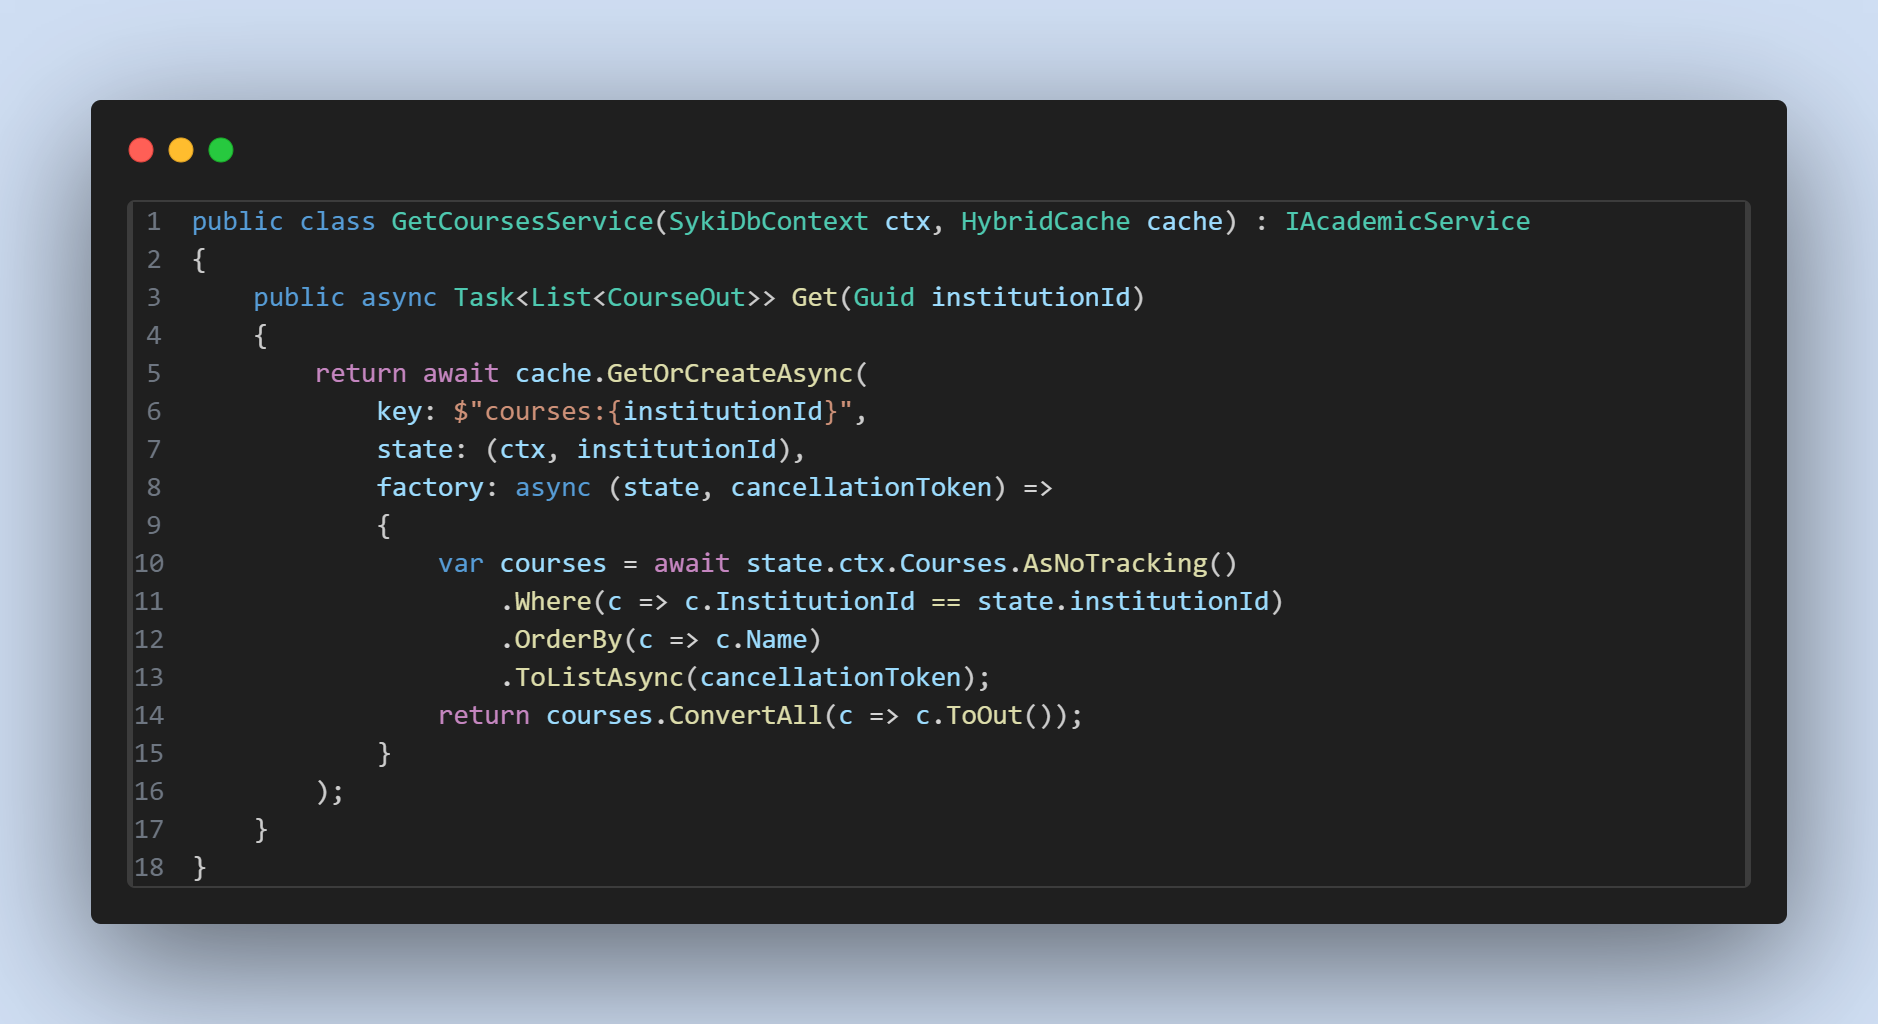
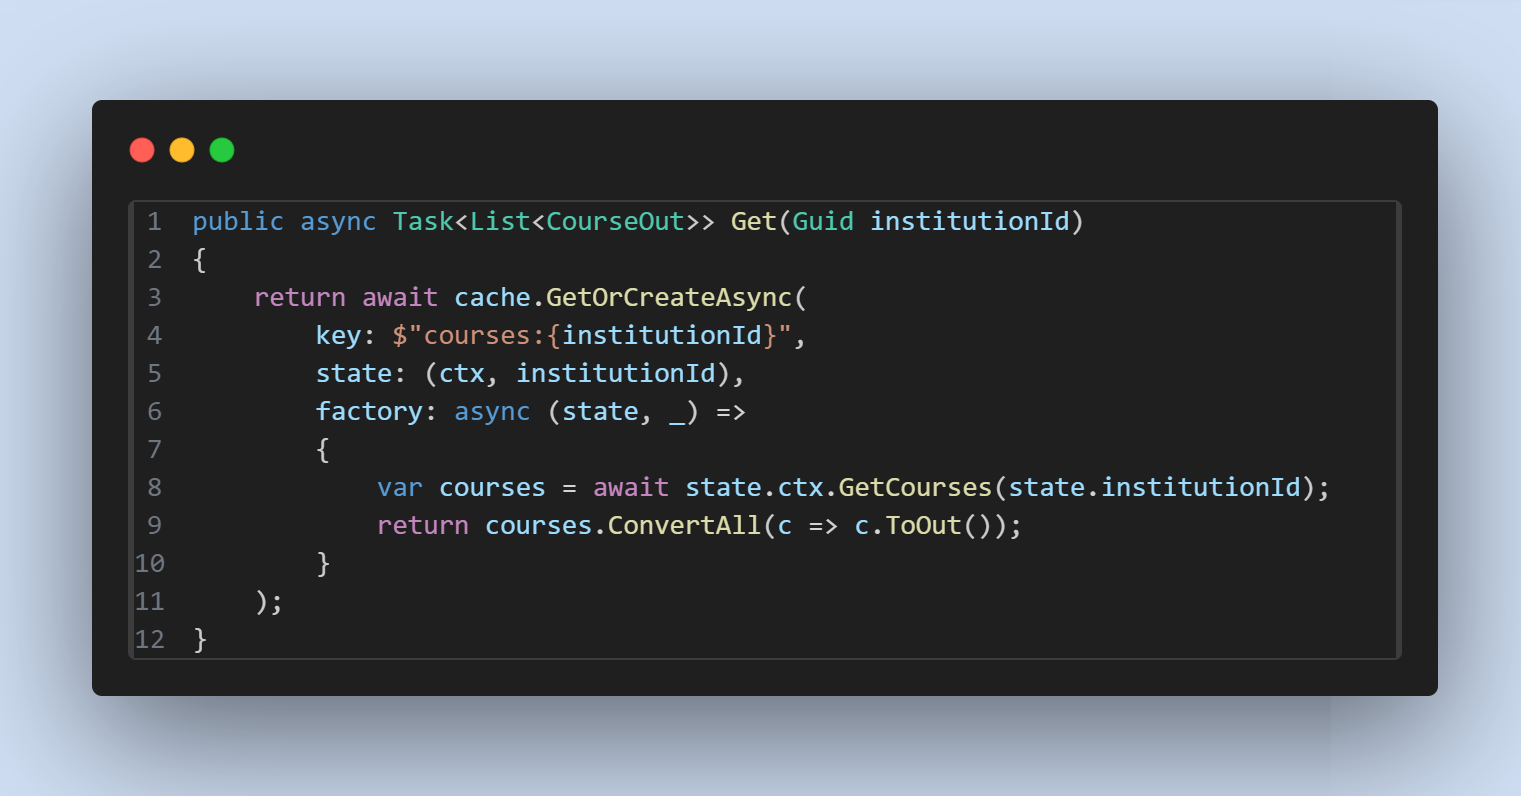
Add cache post

Changed region(s): [[0.0309, 0.0905, 0.9579, 0.9045], [0.1545, 0.3317, 0.8652, 0.7236], [0.1545, 0.7538, 0.1854, 0.7839]]

diff --git a/Tests/Load/CreateCourses.js b/Tests/Load/CreateCourses.js
@@ -1,5 +1,5 @@
 import http from 'k6/http';
-import { check } from 'k6';
+import { check, sleep } from 'k6';
 
 const COURSE_NAMES = [
   'Ciência da Computação',
@@ -46,4 +46,6 @@ export default function () {
   check(res, {
     'status is 2xx': (r) => r.status >= 200 && r.status < 300,
   });
+
+  sleep(1);
 }

diff --git a/Back/Database/DbContextExtensions.cs b/Back/Database/DbContextExtensions.cs
@@ -1,4 +1,5 @@
 using Microsoft.EntityFrameworkCore.Metadata;
+using Syki.Back.Features.Academic.CreateCourse;
 using Microsoft.EntityFrameworkCore.Migrations;
 using Microsoft.EntityFrameworkCore.Infrastructure;
 
@@ -45,6 +46,14 @@ public static class DbContextExtensions
     public static async Task<bool> AcademicPeriodExists(this SykiDbContext ctx, Guid institutionId, string id)
     {
         return await ctx.AcademicPeriods.AnyAsync(p => p.InstitutionId == institutionId && p.Id == id);
+    }
+
+    public static async Task<List<Course>> GetCourses(this SykiDbContext ctx, Guid institutionId)
+    {
+        return await ctx.Courses.AsNoTracking()
+            .Where(c => c.InstitutionId == institutionId)
+            .OrderBy(c => c.Name)
+            .ToListAsync();
     }
 
     public static Command AddCommand(

diff --git a/Back/Features/Academic/GetCourses/GetCoursesService.cs b/Back/Features/Academic/GetCourses/GetCoursesService.cs
@@ -7,12 +7,9 @@ public class GetCoursesService(SykiDbContext ctx, HybridCache cache) : IAcademic
         return await cache.GetOrCreateAsync(
             key: $"courses:{institutionId}",
             state: (ctx, institutionId),
-            factory: async (state, cancellationToken) =>
+            factory: async (state, _) =>
             {
-                var courses = await state.ctx.Courses.AsNoTracking()
-                    .Where(c => c.InstitutionId == state.institutionId)
-                    .OrderBy(c => c.Name)
-                    .ToListAsync(cancellationToken);
+                var courses = await state.ctx.GetCourses(state.institutionId);
                 return courses.ConvertAll(c => c.ToOut());
             }
         );

diff --git a/Posts/016HybridCache/README.md b/Posts/016HybridCache/README.md
@@ -1,20 +1,15 @@
-# 💾 Hybrid Cache ⚡
+# 💾 𝐇𝐲𝐛𝐫𝐢𝐝 𝐂𝐚𝐜𝐡𝐞 ⚡
 
-Adicionei cache no projeto open-source que estou desenvolvendo!
+Adicionei 𝐜𝐚𝐜𝐡𝐞 no projeto open-source que estou desenvolvendo!
 
+O 𝐒𝐲𝐤𝐢 (https://github.com/ZaqueuCavalcante/syki) é um sistema de gerenciamento de instituições de ensino que pode ser usado por gestores, professores e alunos.
 
+Ele possui alguns dados que mudam pouco, como cadastros de campus, cursos e disciplinas. Logo, faz muito sentido guardá-los em cache para economizar recursos e aumentar a performance da aplicação como um todo.
 
-O ([Syki](https://github.com/ZaqueuCavalcante/syki)) é um sistema de gerenciamento de instituições de ensino que pode ser usado por gestores, professores e alunos.
+Pensando nisso, implementei uma camada de cache em memória utilizando a lib 𝐇𝐲𝐛𝐫𝐢𝐝𝐂𝐚𝐜𝐡𝐞, desenvolvida pelo próprio time da Microsoft. Ela é bem simples de configurar e utilizar, bastando informar um par chave-valor para salvar os items em cache. A expiração pode ser automática (após certo tempo) ou manual (quando os dados mudam e precisam ser atualizados).
 
+Essa biblioteca ainda resolve o problema crítico de 𝐜𝐚𝐜𝐡𝐞 𝐬𝐭𝐚𝐦𝐩𝐞𝐝𝐞: quando o cache expira, se várias requisições tentarem buscar os mesmos dados em paralelo, apenas uma delas vai de fato no banco de dados e insere os registros no cache. As demais leem direto do cache, evitando consultas desnecessárias ao banco de dados.
 
+Abaixo temos o endpoint que retorna todos os cursos de uma instituição de ensino: primeiro sempre pegando os dados do banco e depois pegando do cache. Utilizei o 𝐊𝟔 para realizar testes de carga nos dois cenários, onde o primeiro conseguiu processar até 𝟑.𝟑𝐤 req/s e o segundo 𝟖.𝟓𝐤 req/s (𝟐.𝟓𝟕𝐱 mais performático).
 
-
-
-360ms TO 220ms
-
-
-Courses
-    - SQL   = 
-    - CACHE = 12ms
-
-
+#cache #api #aspnet #postgres #opensource
